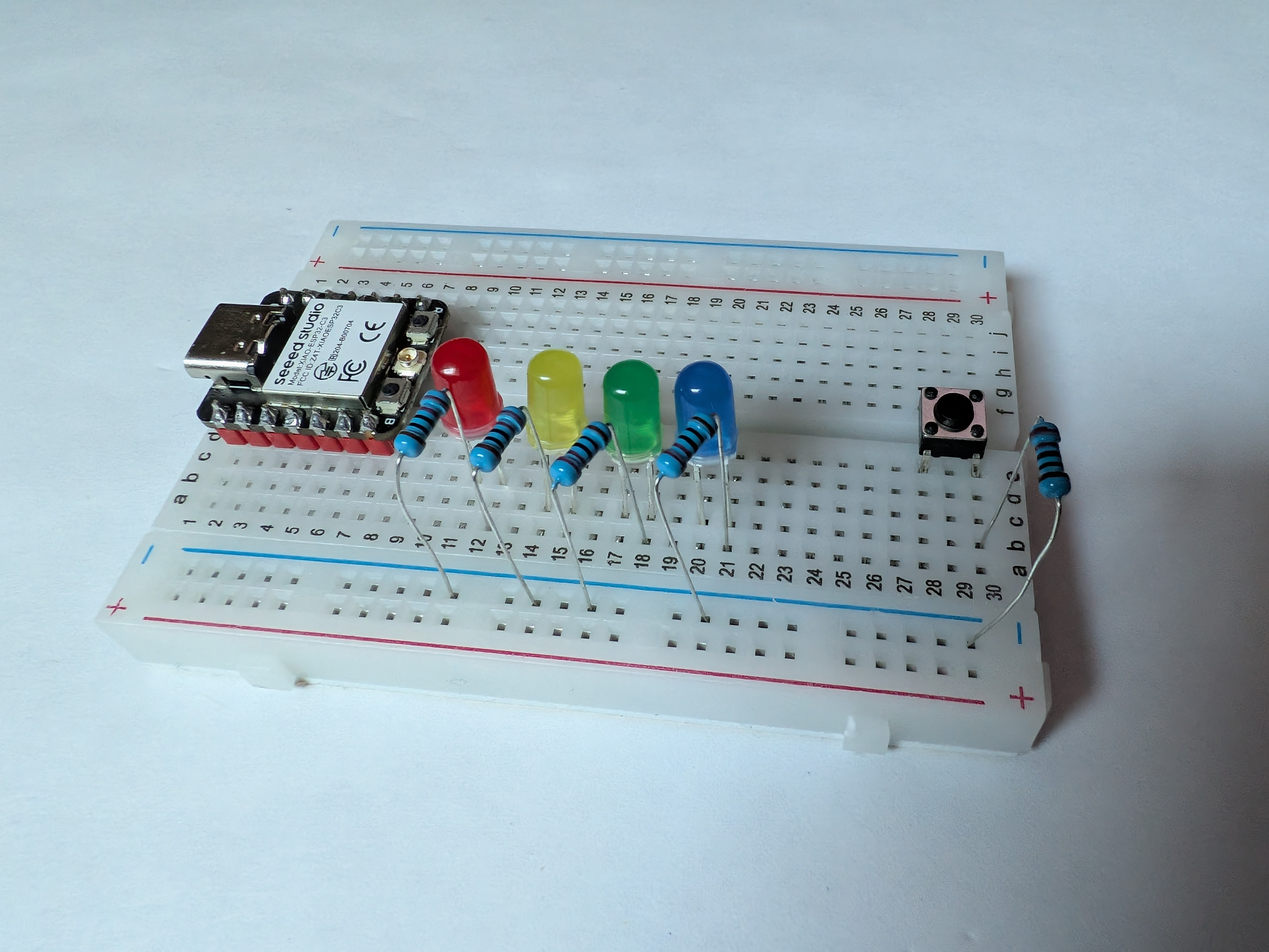
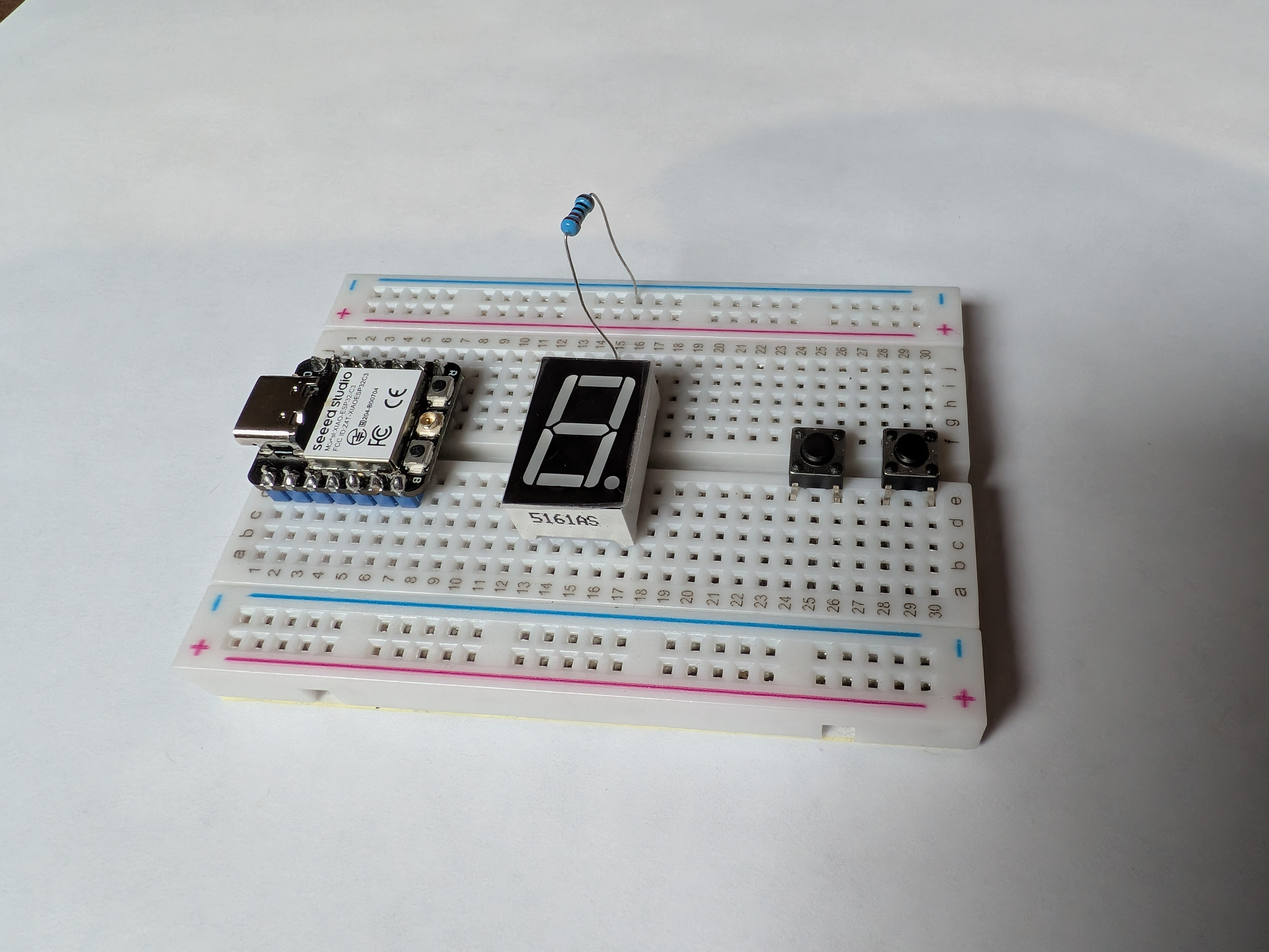
project 3 (pig game)

diff --git a/micropython_workshop/project_guide/project_3/project_3.tex b/micropython_workshop/project_guide/project_3/project_3.tex
@@ -10,7 +10,7 @@ Over the course of this project, you will:
     \item Write a program that will play a simple two-player game using the components
 \end{itemize}
 At the end of this project, your microcontroller should run a MicroPython program that allows
-two players to take turns rolling a die. The first player to reach 100 points wins the game.
+two players to take turns rolling a die. The first player to reach 50 points wins the game.
 \begin{figure}[H]
 \centering
     \includegraphics[width=.6\linewidth]{project_3/success!.jpg}
@@ -77,7 +77,7 @@ You should be left with something that looks like this:
     \item Place a white jumper wire between \textbf{B2} and \textbf{J30}.
     \item Place a white jumper wire between \textbf{B1} and \textbf{J26}.
     \item Place a black jumper wire between \textbf{J24} and the top negative rail.
-    \item Place a black jumper wire between \textbf{J28} and the top negative rail.
+    \item Place a brown jumper wire between \textbf{J28} and the top negative rail.
 \end{itemize}
 
 You should be left with something that looks like this:

diff --git a/micropython_workshop/project_code/project_3_pig_game/project_3_pig_game.py b/micropython_workshop/project_code/project_3_pig_game/project_3_pig_game.py
@@ -4,18 +4,22 @@ import time
 from debounced_button import DebouncedButton
 from seven_segment import SevenSegmentDisplay
 
-WIN_LIMIT = 100
+WIN_LIMIT = 50
 CURRENT_PLAYER = 2
 SCORES = {1: 0, 2: 0}
 CURRENT_PLAYER_HELD = 0
+GAME_OVER = False
 
 def game_win():
+    global GAME_OVER
+
     roll_button.disable()
     next_player_button.disable()
     print("---")
     for player, score in SCORES.items():
         print(f"Player {player}: {score} points")
     print(f"Player {CURRENT_PLAYER} wins!")
+    GAME_OVER = True
 
 def roll(_):
     global CURRENT_PLAYER_HELD
@@ -60,6 +64,7 @@ def next_player(_):
     CURRENT_PLAYER = 1 if CURRENT_PLAYER == 2 else 2
     print("---")
     print(f"Player {CURRENT_PLAYER}'s turn - You have {SCORES[CURRENT_PLAYER]} points so far")
+    display.clear()
 
 
 display = SevenSegmentDisplay([10, 9, 8, 7, 6, 5, 4])
@@ -69,3 +74,5 @@ next_player_button = DebouncedButton(2, next_player)
 # start the game
 display.clear()
 next_player(None)
+while not GAME_OVER:
+    pass

diff --git a/micropython_workshop/project_guide/micropython_ide/micropython_ide.tex b/micropython_workshop/project_guide/micropython_ide/micropython_ide.tex
@@ -3,7 +3,7 @@
 \section{Connecting Your Microcontroller}
 Throughout this guide, we will be making use of a free online IDE for connecting our microcontroller
 to our computer and loading, editing, and running code on it. You can access the IDE from your browser
-by going to \url{https://viper-ide.org/}. Click on the USB icon in the top right and choose your
+by going to \url{https://viper-ide.blackhart.dev/}. Click on the USB icon in the top right and choose your
 microcontroller from the list:
 
 \begin{figure}[H]
